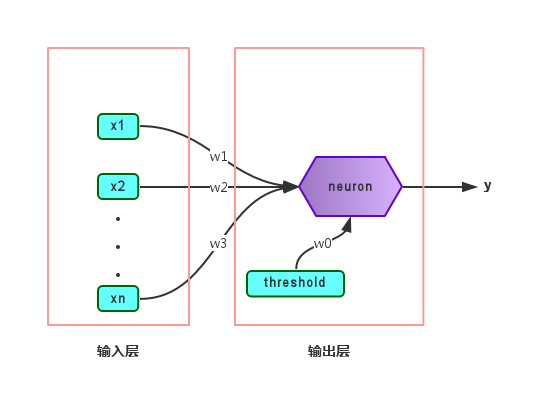
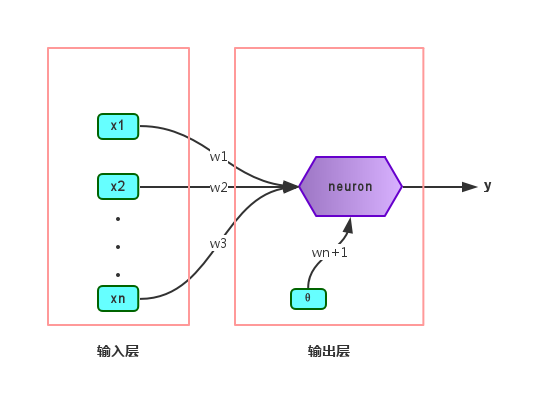
神经网络：感知机与多层网络

Changed region(s): [[0.4375, 0.5387, 0.6562, 0.7781]]

diff --git a/05neural_network.md b/05neural_network.md
@@ -25,7 +25,7 @@
 
 在生物学中，每个神经元都有多个**树突（dendrite）**，一个**轴突（axon）**，以及一个**细胞体（cell body）**。当它**兴奋**时，就会向相连的神经元发送化学物质，从而改变它们内部的电位。如果一个神经元的电位超过了**阈值（threshold，也称bias）**，那它就会被**激活**，也即兴奋，继而向其他相连神经元发送化学物质。
 
-在机器学习中，最常用的是右图的**M-P神经元模型**。树突对应于输入部分，每个神经元接收到若干个来自其他神经元的输入信号，这些信号通过带权重的**连接（connection）**传递给细胞体，这些权重又称为**连接权**。细胞体分为两部分，前一部分计算**总输入值（即输入信号的加权和，或者说累积电平）**；后一部分先计算总输入值与该神经元的阈值的差值，然后通过**激活函数（activation function）**的处理，从轴突输出给其它神经元。也即：
+在机器学习中，最常用的是右图的**M-P神经元模型**（亦称为**阈值逻辑单元（threshold logic unit）**）。树突对应于输入部分，每个神经元接收到若干个来自其他神经元的输入信号，这些信号通过带权重的**连接（connection）**传递给细胞体，这些权重又称为**连接权**。细胞体分为两部分，前一部分计算**总输入值（即输入信号的加权和，或者说累积电平）**；后一部分先计算总输入值与该神经元的阈值的差值，然后通过**激活函数（activation function）**的处理，从轴突输出给其它神经元。也即：
 
 $$y = f(\sum_i w_i x_i -\theta)$$
 
@@ -35,4 +35,33 @@ $$y = f(\sum_i w_i x_i -\theta)$$
 
 ## 感知机与多层网络
 
-**感知机（Perceptron）**
+**感知机（Perceptron）**仅由两层神经元组成，如下图：
+
+![perceptron](https://github.com/familyld/Machine_Learning/blob/master/graph/perceptron.png?raw=true)
+
+两层是指输入层和输出层，但**只有输出层是M-P神经元**，也即**只有一层功能神经元（functional neuron）**。输入层只负责把每一个样本的各个属性传递给输出层（**输入层的神经元数量等于样本的属性数目**），不进行函数处理。其实说白了这个模型跟逻辑回归是一样的，不过按我的理解就是感知机的输出层可以有多个神经元，产生多个输出。而且线性模型中偏置项是和属性一起加权求和的，但神经网络中则是求属性加权和和预测的差。
+
+有时候阈值 $\theta$ 可以看作一个**输入固定为 $-1.0$ 的哑结点（dummy node）**，连接权为 $w_{n+1}$。这样就可以把权重和阈值的学习统一为权重的学习了。更新权重的方式如下：
+
+$$w_i \leftarrow w_i + \Delta w_i$$
+
+$$\Delta  w_i= \eta (y - \hat{y}) x_i$$
+
+其中，$\eta$ 称为**学习率（learning rate）**，感知机是**逐个数据点输入来更新**的。设定初始的权重后，逐个点输入，如果没有预测错就继续检验下一个点；如果预测错了就更新权重，然后重新开始逐个点检验，**直到所有点都预测正确了就停止更新**（所以这其实是一种最小化经验误差的方法）。
+
+已经证明了，**若两类模式是线性可分（linearly separable）的，即存在一个线性超平面能将它们分开**。比如二维平面上可以用一条**直线**完全分隔开两个类别的点。由于感知机只有一层功能神经元，所以学习能力极其有限，**只能处理线性可分问题**。对于这类问题，感知机的学习过程必然**收敛（converge）**而求出适当的权向量；对于线性不可分问题，感知机的学习过程会发生**振荡（fluctuation）**，难以稳定下来。
+
+**使用多层的功能神经元可以解决线性不可分问题**，比方说两层（功能神经元）的感知机就可以解决异或问题（在二维平面中需要使用两条直线才能分隔开）。在输入层和输出层之间的层称为隐层或者**隐含层（hidden layer）**，隐含层的神经元也是功能神经元。
+
+![multi-layer feedforward neural networks](https://github.com/familyld/Machine_Learning/blob/master/graph/multi-layer_feedforward_neural_networks.png?raw=true)
+
+上图展示的最为常见的多层神经网络——**多层前馈神经网络（multi-layer feedforward neural networks）**，它有以下特点：
+
+1. 每层神经元与下一层神经元**全互连**
+2. 神经元之间**不存在同层连接**
+3. 神经元之间**不存在跨层连接**
+
+因为说两层网络时容易有歧义（只包含输入层输出层？还是包含两层功能神经元？），所以一般称包含一个隐含层的神经网络为**单隐层网络**。只要包含隐层，就可以称为**多层网络**。神经网络的学习其实就是调整各神经元之间的**连接权（connection weight）**以及各神经元的阈值，也即是说，**神经网络学到的东西都蕴含在连接权和阈值中**了。
+
+
+
